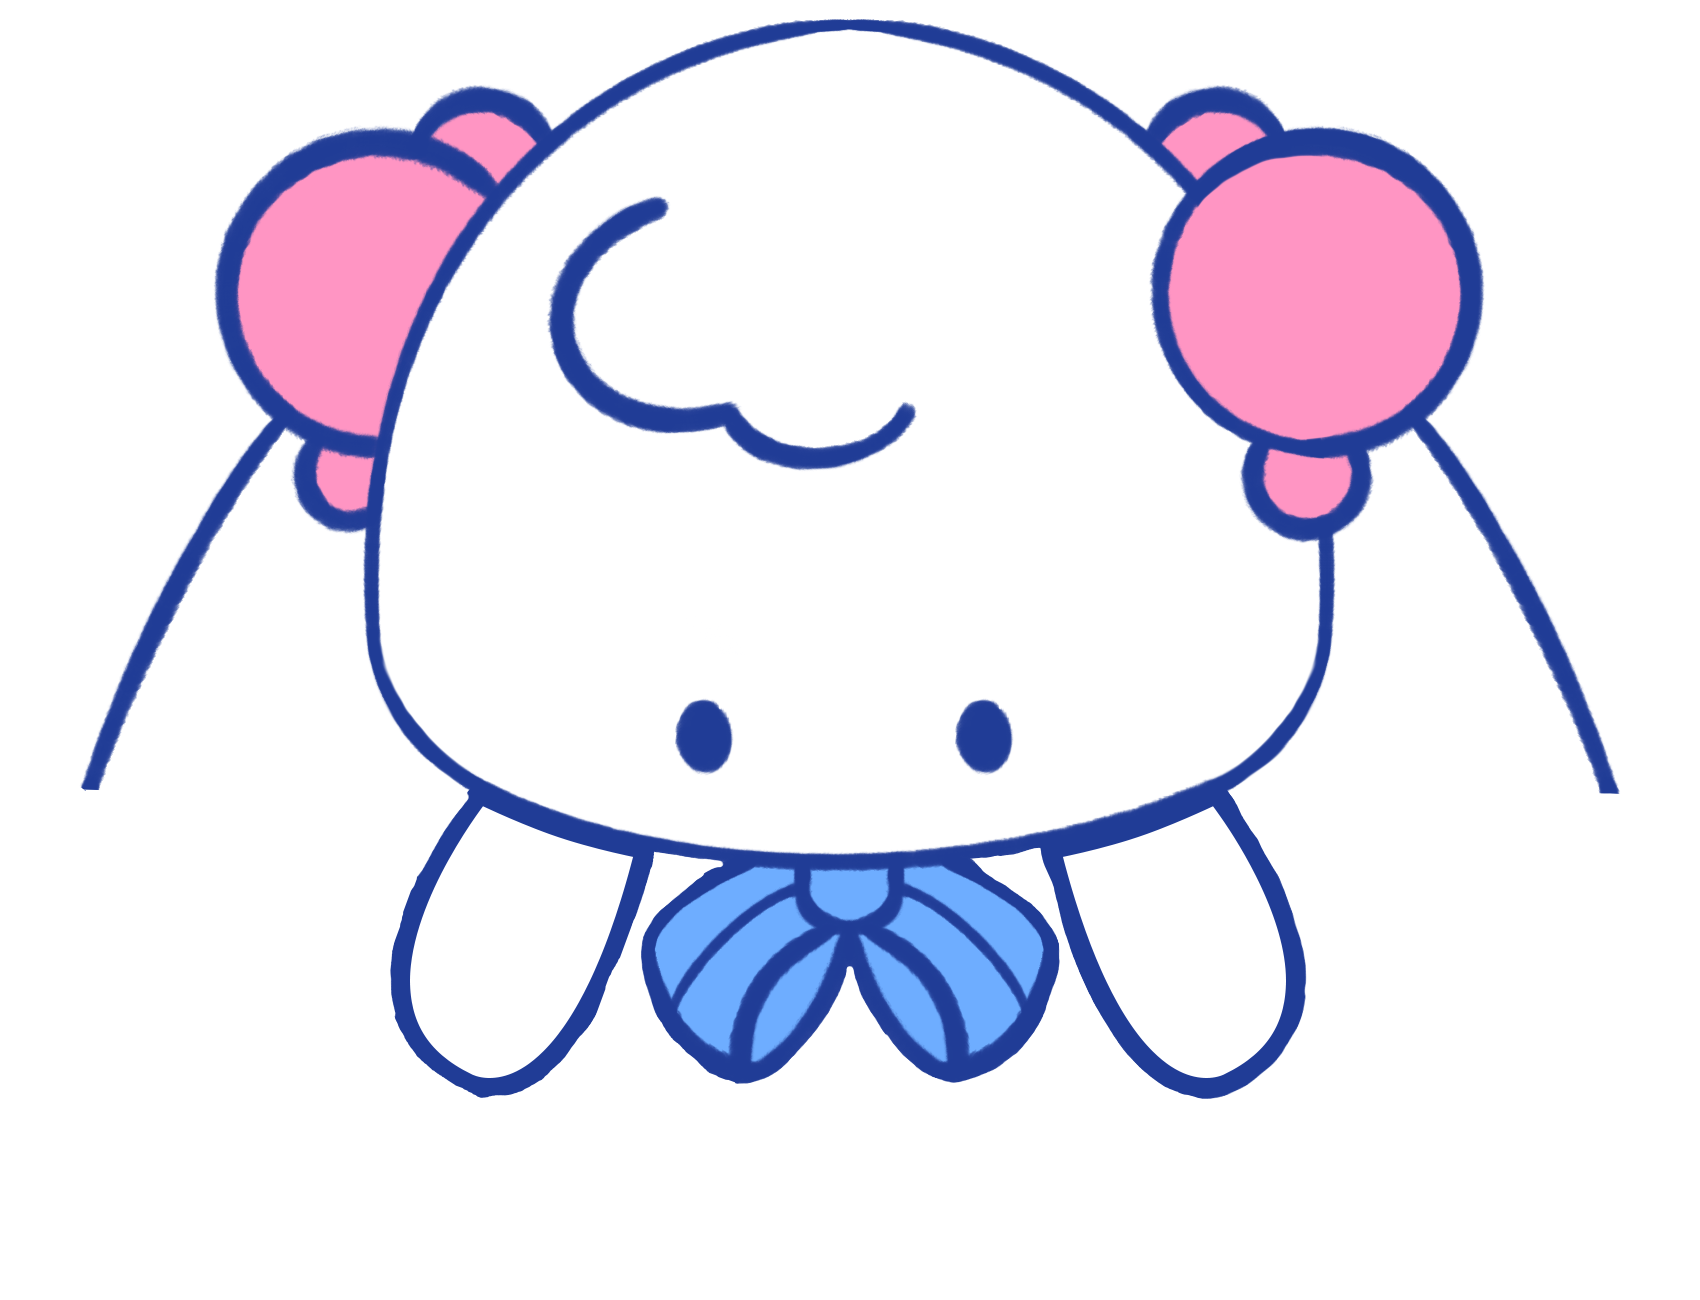
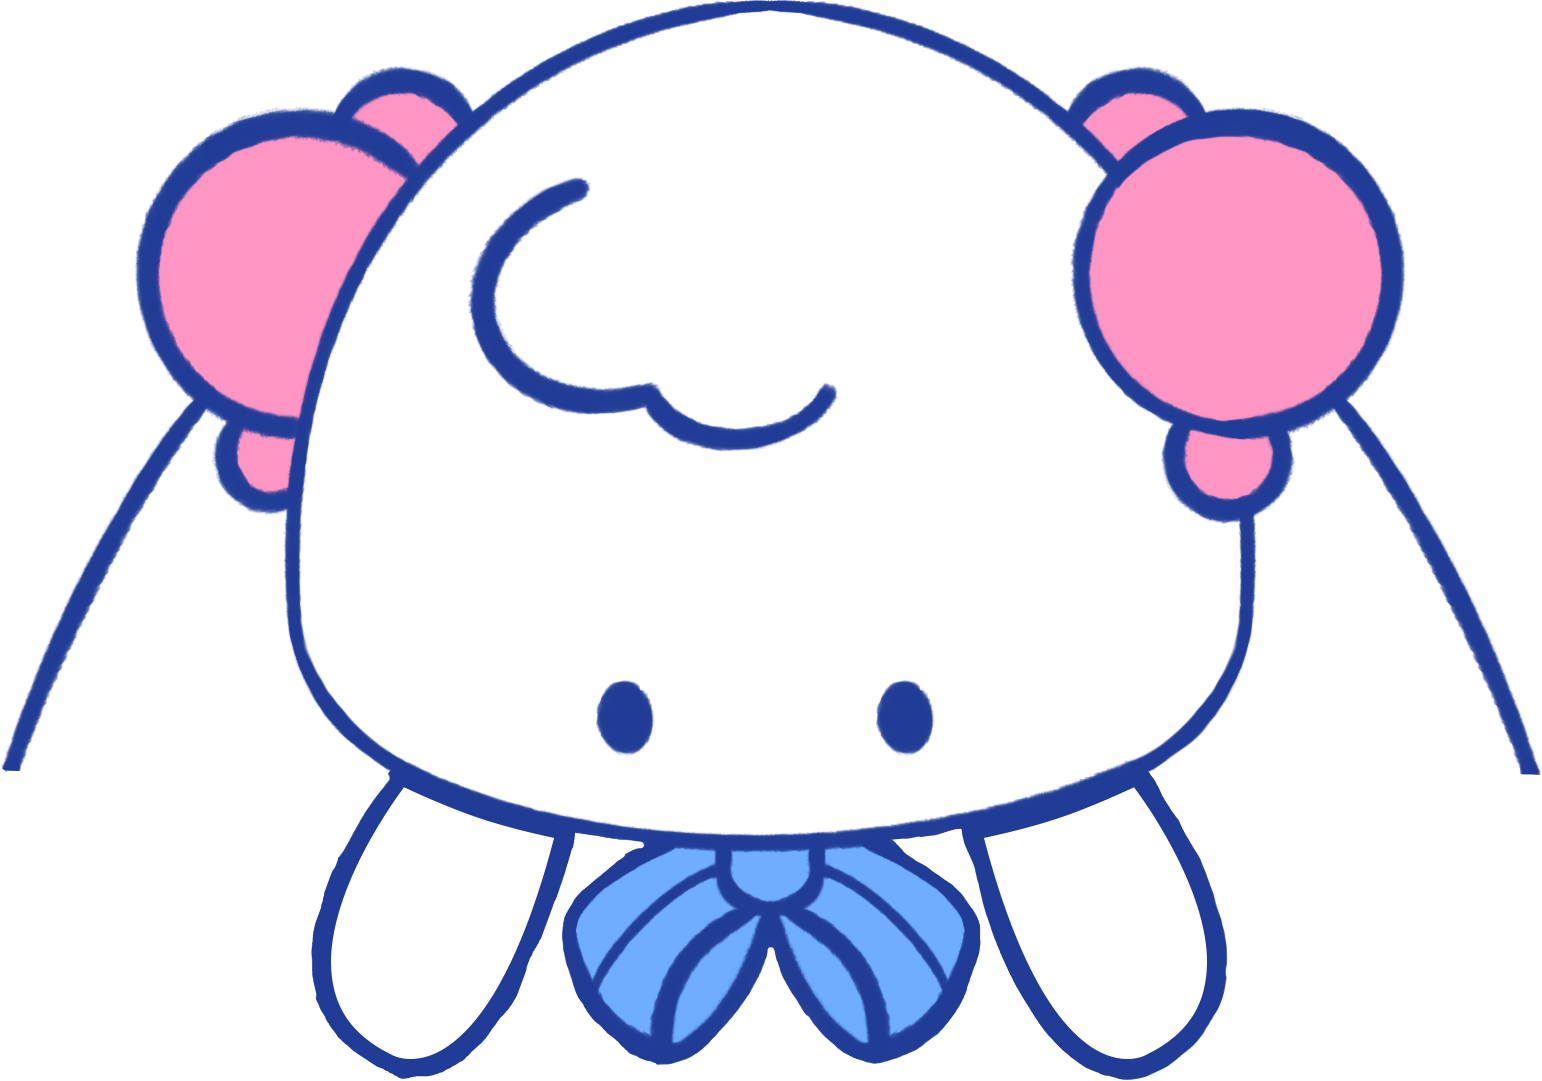
fixed mascots on buttons

Changed region(s): [[0.0, 0.0, 1.0, 1.0], [0.2802, 0.1526, 0.5603, 0.4274]]

diff --git a/src/components/NoticeBoard.js b/src/components/NoticeBoard.js
@@ -15,7 +15,7 @@ export default function NoticeBoard() {
                         Subcommittee Recruitment Form
                         
                     </div>
-                    <img src={girl} alt="internal team" className="absolute top-[-33%] right-0 md:w-[120px] md:h-[110px] w-[80px] h-[80px] object-contain opacity-0 group-hover:opacity-100 transition-opacity duration-50 z-10" />
+                    <img src={girl} alt="internal team" className="absolute top-0 right-0 -translate-y-[60%] -translate-x-4 md:w-[120px] md:h-[110px] w-[80px] h-[80px] object-contain opacity-0 group-hover:opacity-100 transition-opacity duration-50 z-10" />
             
                 </a>
                 <a 
@@ -29,7 +29,7 @@ export default function NoticeBoard() {
                         Subcommittee Port Descriptions
                         
                     </div>
-                    <img src={girl} alt="internal team" className="absolute top-[-33%] right-0 md:w-[120px] md:h-[110px] w-[80px] h-[80px] object-contain opacity-0 group-hover:opacity-100 transition-opacity duration-50 z-10" />
+                    <img src={girl} alt="internal team" className="absolute top-0 right-0 -translate-y-[60%] -translate-x-4 md:w-[120px] md:h-[110px] w-[80px] h-[80px] object-contain opacity-0 group-hover:opacity-100 transition-opacity duration-50 z-10" />
             
                 </a>
             </div> */}
@@ -43,7 +43,7 @@ export default function NoticeBoard() {
                 <div className="flex justify-center items-center text-center max-md:w-full max-md:p-5 max-md:text-sm bg-white w-[100%] h-[200px] max-md:h-[120px] rounded text-xl text-gray-700 font-medium border-2 border-gray-500 hover:border-[#273b92] font-semibold tracking-wider md:hover:text-[1.3rem] hover:border-2">
                         UNSW Kpop Signup Form 
                 </div>
-                <img src={boy} alt="internal team" className="absolute top-[-30%] right-0 md:w-[100px] md:h-[100px] w-[80px] h-[80px] object-contain opacity-0 group-hover:opacity-100 transition-opacity duration-50 z-10" />
+                <img src={boy} alt="internal team" className="absolute top-0 right-0 -translate-y-[60%] md:w-[100px] md:h-[100px] w-[80px] h-[80px] object-contain opacity-0 group-hover:opacity-100 transition-opacity duration-50 z-10" />
 
             </a> 
             
@@ -57,7 +57,7 @@ export default function NoticeBoard() {
                 <div className="flex justify-center items-center text-center max-md:w-full max-md:p-5 max-md:text-sm bg-white w-[100%] h-[200px] max-md:h-[120px] rounded text-xl text-gray-700 font-medium border-2 border-gray-500 hover:border-[#273b92] font-semibold tracking-wider md:hover:text-[1.3rem] hover:border-2">
                         Executive nomination form
                 </div>
-                <img src={boy} alt="internal team" className="absolute top-[-30%] right-0 md:w-[100px] md:h-[100px] w-[80px] h-[80px] object-contain opacity-0 group-hover:opacity-100 transition-opacity duration-50 z-10" />
+                <img src={boy} alt="internal team" className="absolute top-0 right-0 -translate-y-[60%] md:w-[100px] md:h-[100px] w-[80px] h-[80px] object-contain opacity-0 group-hover:opacity-100 transition-opacity duration-50 z-10" />
 
             </a>
             {/* <div className="group relative w-full max-md:w-[80%]">
@@ -66,7 +66,7 @@ export default function NoticeBoard() {
                     onClick={() => navigate("/about", { state: { scrollToMeet: true } })}>
                     Meet the 2025 UNSW Kpop Society Team
                 </div>
-                <img src={boy} alt="internal team" className="absolute top-[-30%] right-0 md:w-[100px] md:h-[100px] w-[80px] h-[80px] object-contain opacity-0 group-hover:opacity-100 transition-opacity duration-50 z-10" />
+                <img src={boy} alt="internal team" className="absolute top-0 right-0 -translate-y-[60%] md:w-[100px] md:h-[100px] w-[80px] h-[80px] object-contain opacity-0 group-hover:opacity-100 transition-opacity duration-50 z-10" />
             </div> */}
             
             

diff --git a/src/pages/Newsletter.js b/src/pages/Newsletter.js
@@ -14,19 +14,19 @@ export default function Newsletter() {
                         <button type="button" className="w-[260px] h-[64px] text-white bg-gradient-to-r from-pastel-blue-dark via-pastel-pink-dark to-pastel-purple-dark font-semibold rounded-full text-sm px-5 py-2.5 text-center shadow-md hover:shadow-lg hover:scale-105 transition-all">
                             Subscribe to Our Newsletter
                         </button>
-                        <img src={boy} alt="" className="absolute top-[-35%] right-0 w-[60px] h-[60px] object-contain opacity-0 group-hover:opacity-100 transition-opacity duration-150 pointer-events-none z-10" />
+                        <img src={boy} alt="" className="absolute top-0 right-0 -translate-y-[60%] w-[60px] h-[60px] object-contain opacity-0 group-hover:opacity-100 transition-opacity duration-150 pointer-events-none z-10" />
                     </a>
                     <a href="https://tellonym.me/unswkpop" target="_blank" rel="noopener noreferrer" className="group relative">
                         <button type="button" className="w-[260px] h-[64px] bg-white text-pastel-pink-dark border-2 border-pastel-purple-light hover:border-pastel-purple-dark font-semibold rounded-full text-sm px-5 py-2.5 text-center transition-colors">
                             Send us a Tellonym
                         </button>
-                        <img src={girl} alt="" className="absolute top-[-35%] right-0 w-[60px] h-[60px] object-contain opacity-0 group-hover:opacity-100 transition-opacity duration-150 pointer-events-none z-10" />
+                        <img src={girl} alt="" className="absolute top-0 right-0 -translate-y-[60%] -translate-x-4 w-[60px] h-[60px] object-contain opacity-0 group-hover:opacity-100 transition-opacity duration-150 pointer-events-none z-10" />
                     </a>
                     <a href="https://drive.google.com/drive/folders/1TuGK6EO7TXirLFM9ZyB8s6X8CoQHH2Cd?usp=sharing" target="_blank" rel="noopener noreferrer" className="group relative">
                         <button type="button" className="w-[260px] h-[64px] bg-white text-pastel-blue-dark border-2 border-pastel-purple-light hover:border-pastel-purple-dark font-semibold rounded-full text-sm px-5 py-2.5 text-center transition-colors">
                             2025 Newsletter Archive
                         </button>
-                        <img src={boy} alt="" className="absolute top-[-35%] right-0 w-[60px] h-[60px] object-contain opacity-0 group-hover:opacity-100 transition-opacity duration-150 pointer-events-none z-10" />
+                        <img src={boy} alt="" className="absolute top-0 right-0 -translate-y-[60%] w-[60px] h-[60px] object-contain opacity-0 group-hover:opacity-100 transition-opacity duration-150 pointer-events-none z-10" />
                     </a>
                 </div>
             </section>
@@ -44,7 +44,7 @@ export default function Newsletter() {
                     <button type="button" className="w-[260px] h-[64px] bg-white text-pastel-blue-dark border-2 border-pastel-purple-light hover:border-pastel-purple-dark font-semibold rounded-full text-sm px-5 py-2.5 text-center transition-colors">
                         Dance Workshop Videos
                     </button>
-                    <img src={girl} alt="" className="absolute top-[-35%] right-0 w-[60px] h-[60px] object-contain opacity-0 group-hover:opacity-100 transition-opacity duration-150 pointer-events-none z-10" />
+                    <img src={girl} alt="" className="absolute top-0 right-0 -translate-y-[60%] -translate-x-4 w-[60px] h-[60px] object-contain opacity-0 group-hover:opacity-100 transition-opacity duration-150 pointer-events-none z-10" />
                 </a>
             </section>
 

diff --git a/src/pages/Login.js b/src/pages/Login.js
@@ -37,7 +37,7 @@ export default function Login() {
     
                         </button>
                
-                        <img src={boy} alt="Image 2" className="relative top-[-140%] left-0 w-[80px] h-[80px] object-contain opacity-0 group-hover:opacity-100 transition-opacity duration-50 z-10" />
+                        <img src={boy} alt="mascot" className="relative top-[-140%] left-0 w-[80px] h-[80px] object-contain opacity-0 group-hover:opacity-100 transition-opacity duration-50 z-10" />
                     </div>
                     <div className="group relative w-[500px] h-[120px] max-md:w-[80%]" onClick={toggleBadModal}>
                         <button type="button" className="w-full h-full text-white bg-purple-300 hover:border hover:border-2 hover:border-purple-500 font-bold rounded-lg text-sm px-5 py-2.5 text-center me-2 mb-2">
@@ -46,7 +46,7 @@ export default function Login() {
                             </span>
                             
                         </button>
-                        <img src={girl} alt="internal team" className="absolute top-[-50%] right-0 w-[100px] h-[100px] object-contain opacity-0 group-hover:opacity-100 transition-opacity duration-50 z-10" />
+                        <img src={girl} alt="internal team" className="absolute top-0 right-0 -translate-y-[60%] -translate-x-4 w-[100px] h-[100px] object-contain opacity-0 group-hover:opacity-100 transition-opacity duration-50 z-10" />
                     </div>
                     
                 </div>

diff --git a/src/components/NavBar.js b/src/components/NavBar.js
@@ -85,7 +85,7 @@ export default function NavBar() {
                             >
                                 Join Us
                             </button>
-                            <img src={girl} alt="" className="absolute top-[-35%] right-0 w-[60px] h-[60px] object-contain opacity-0 group-hover:opacity-100 transition-opacity duration-150 pointer-events-none z-10" />
+                            <img src={girl} alt="" className="absolute top-0 right-0 -translate-y-[60%] -translate-x-4 w-[60px] h-[60px] object-contain opacity-0 group-hover:opacity-100 transition-opacity duration-150 pointer-events-none z-10" />
                         </div>
                     </section>
                 )
@@ -130,7 +130,7 @@ export default function NavBar() {
                         onClick={() => navigate("/about", { state: { scrollToJoin: true } })}>
                         Join Us
                     </button>
-                    <img src={boy} alt="" className="absolute top-[-35%] right-0 w-[60px] h-[60px] object-contain opacity-0 group-hover:opacity-100 transition-opacity duration-150 pointer-events-none z-10" />
+                    <img src={boy} alt="" className="absolute top-0 right-0 -translate-y-[60%] w-[60px] h-[60px] object-contain opacity-0 group-hover:opacity-100 transition-opacity duration-150 pointer-events-none z-10" />
                 </div>
             </div>
         </>

diff --git a/src/pages/Home.js b/src/pages/Home.js
@@ -54,7 +54,7 @@ export default function Home() {
                 >
                   BECOME A MEMBER
                 </button>
-                <img src={boy} alt="" className="absolute top-[-35%] right-0 w-[60px] h-[60px] object-contain opacity-0 group-hover:opacity-100 transition-opacity duration-150 pointer-events-none z-10" />
+                <img src={boy} alt="" className="absolute top-0 right-0 -translate-y-[60%] w-[60px] h-[60px] object-contain opacity-0 group-hover:opacity-100 transition-opacity duration-150 pointer-events-none z-10" />
               </div>
               <div className="group relative">
                 <button
@@ -63,7 +63,7 @@ export default function Home() {
                 >
                   LATEST NOTICES
                 </button>
-                <img src={girl} alt="" className="absolute top-[-35%] right-0 w-[60px] h-[60px] object-contain opacity-0 group-hover:opacity-100 transition-opacity duration-150 pointer-events-none z-10" />
+                <img src={girl} alt="" className="absolute top-0 right-0 -translate-y-[60%] -translate-x-4 w-[60px] h-[60px] object-contain opacity-0 group-hover:opacity-100 transition-opacity duration-150 pointer-events-none z-10" />
               </div>
             </div>
           </div>

diff --git a/src/pages/Spons.js b/src/pages/Spons.js
@@ -19,7 +19,7 @@ export default function Spons() {
                         <button type="button" className="w-[260px] h-[64px] text-white bg-gradient-to-r from-pastel-blue-dark via-pastel-pink-dark to-pastel-purple-dark font-semibold rounded-full text-sm px-5 py-2.5 text-center shadow-md hover:shadow-lg hover:scale-105 transition-all">
                             Become a member
                         </button>
-                        <img src={boy} alt="" className="absolute top-[-35%] right-0 w-[60px] h-[60px] object-contain opacity-0 group-hover:opacity-100 transition-opacity duration-150 pointer-events-none z-10" />
+                        <img src={boy} alt="" className="absolute top-0 right-0 -translate-y-[60%] w-[60px] h-[60px] object-contain opacity-0 group-hover:opacity-100 transition-opacity duration-150 pointer-events-none z-10" />
                     </a>
                     <SponModal />
                 </div>

diff --git a/src/components/SponModal.js b/src/components/SponModal.js
@@ -1,5 +1,5 @@
 import { useState } from "react"
-import boy from "../assets/boy.png"
+import girl from "../assets/girl.png"
 export default function SponModal() {
 
     const [visibility, setVisibility] = useState(false)
@@ -19,7 +19,7 @@ export default function SponModal() {
                     onClick={toggleModal}>
                         Sponsor us
                     </button>
-                    <img src={boy} alt="internal team" className="absolute top-[-30%] right-0 w-[60px] h-[60px] object-contain opacity-0 group-hover:opacity-100 transition-opacity duration-50 z-10" />
+                    <img src={girl} alt="internal team" className="absolute top-0 right-0 -translate-y-[60%] -translate-x-4 w-[60px] h-[60px] object-contain opacity-0 group-hover:opacity-100 transition-opacity duration-50 z-10" />
             </div>
 
             {visibility && (

diff --git a/src/components/JoinIntModal.js b/src/components/JoinIntModal.js
@@ -25,7 +25,7 @@ export default function JoinIntModal() {
 
                 </button>
                 
-                <img src={girl} alt="join" className="absolute top-[-50%] right-0 w-[100px] h-[100px] object-contain opacity-0 group-hover:opacity-100 transition-opacity duration-50 z-10" />
+                <img src={girl} alt="join" className="absolute top-0 right-0 -translate-y-[60%] -translate-x-4 w-[100px] h-[100px] object-contain opacity-0 group-hover:opacity-100 transition-opacity duration-50 z-10" />
             </div>
 
             {visibility && (

diff --git a/src/components/JoinModal.js b/src/components/JoinModal.js
@@ -15,7 +15,7 @@ export default function JoinModal() {
                 </button>
             </a>
 
-            <img src={boy} alt="" className="absolute top-[-35%] right-0 w-[80px] h-[80px] object-contain opacity-0 group-hover:opacity-100 transition-opacity duration-150 pointer-events-none z-10" />
+            <img src={boy} alt="" className="absolute top-0 right-0 -translate-y-[60%] w-[80px] h-[80px] object-contain opacity-0 group-hover:opacity-100 transition-opacity duration-150 pointer-events-none z-10" />
         </div>
     )
 }
